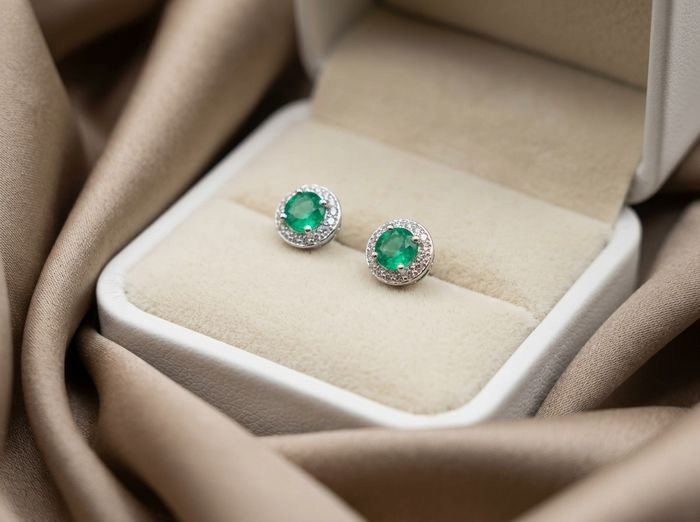
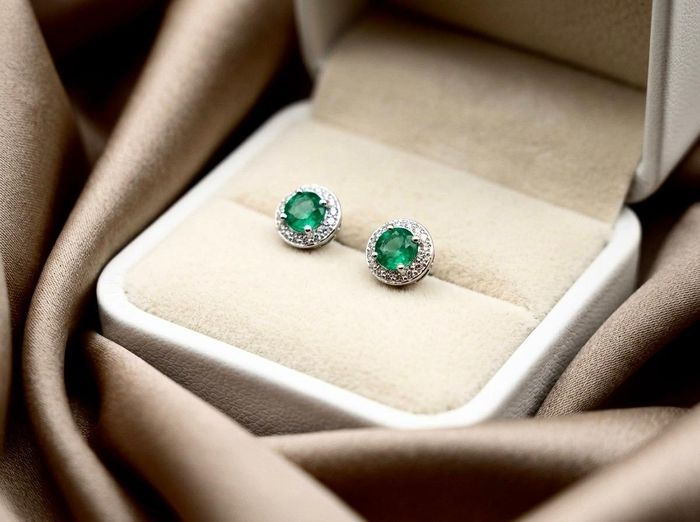
Actualiza la foto de portada de Collar #8 y Aretes Talla 5

diff --git a/scripts/optimize_images.py b/scripts/optimize_images.py
@@ -19,7 +19,7 @@ PRODUCTS = {
     "collar-5": ("Collar #5", ["imginicio.png", "DSC00787.JPEG", "DSC00797.JPEG", "DSC00813.JPEG"]),
     "collar-6": ("Collar #6", ["imginicio.png", "DSC00911.JPEG", "DSC00914.JPEG", "DSC00919.JPEG"]),
     "collar-7": ("Collar #7", ["imginicio.png", "DSC00882.JPEG", "DSC00884.JPEG", "DSC00888.JPEG", "DSC00891.JPEG"]),
-    "collar-8": ("Collar #8", ["imginicio.png", "DSC00848.JPEG", "DSC00854.JPEG", "DSC00858.JPEG", "DSC00859.JPEG"]),
+    "collar-8": ("Collar #8", ["imginicio.jpeg", "DSC00848.JPEG", "DSC00854.JPEG", "DSC00858.JPEG", "DSC00859.JPEG"]),
     "collar-9": ("Collar #9", ["imginicio.png", "DSC00920.JPEG", "DSC00924.JPEG", "DSC00926.JPEG", "DSC00928.JPEG"]),
     "collar-10": ("Collar #10", ["imginicio.png", "DSC01032.JPEG", "DSC01035.JPEG", "DSC01039.JPEG", "DSC01040.JPEG"]),
     "collar-11": ("Collar #11", ["imginicio.jpeg", "DSC01050.JPEG", "DSC01054.JPEG", "DSC01056.JPEG", "DSC01060.JPEG"]),
